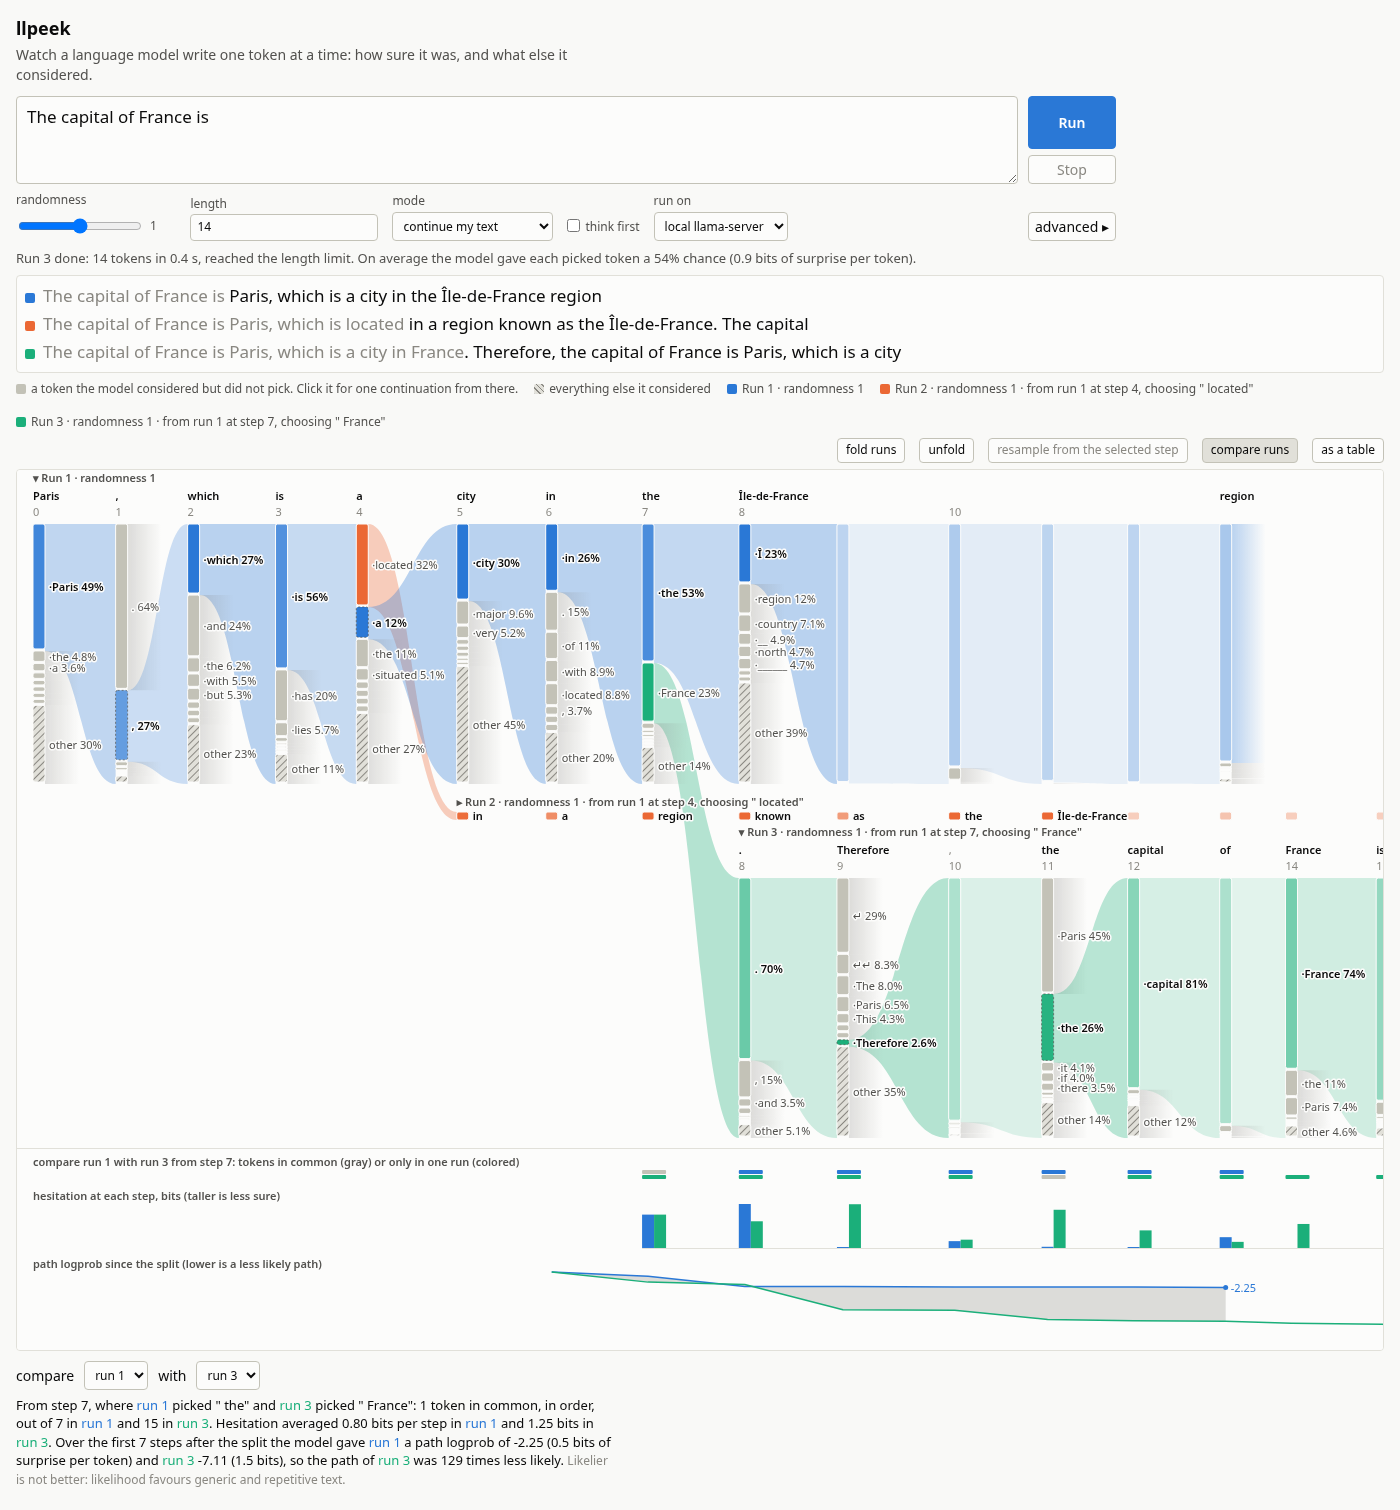
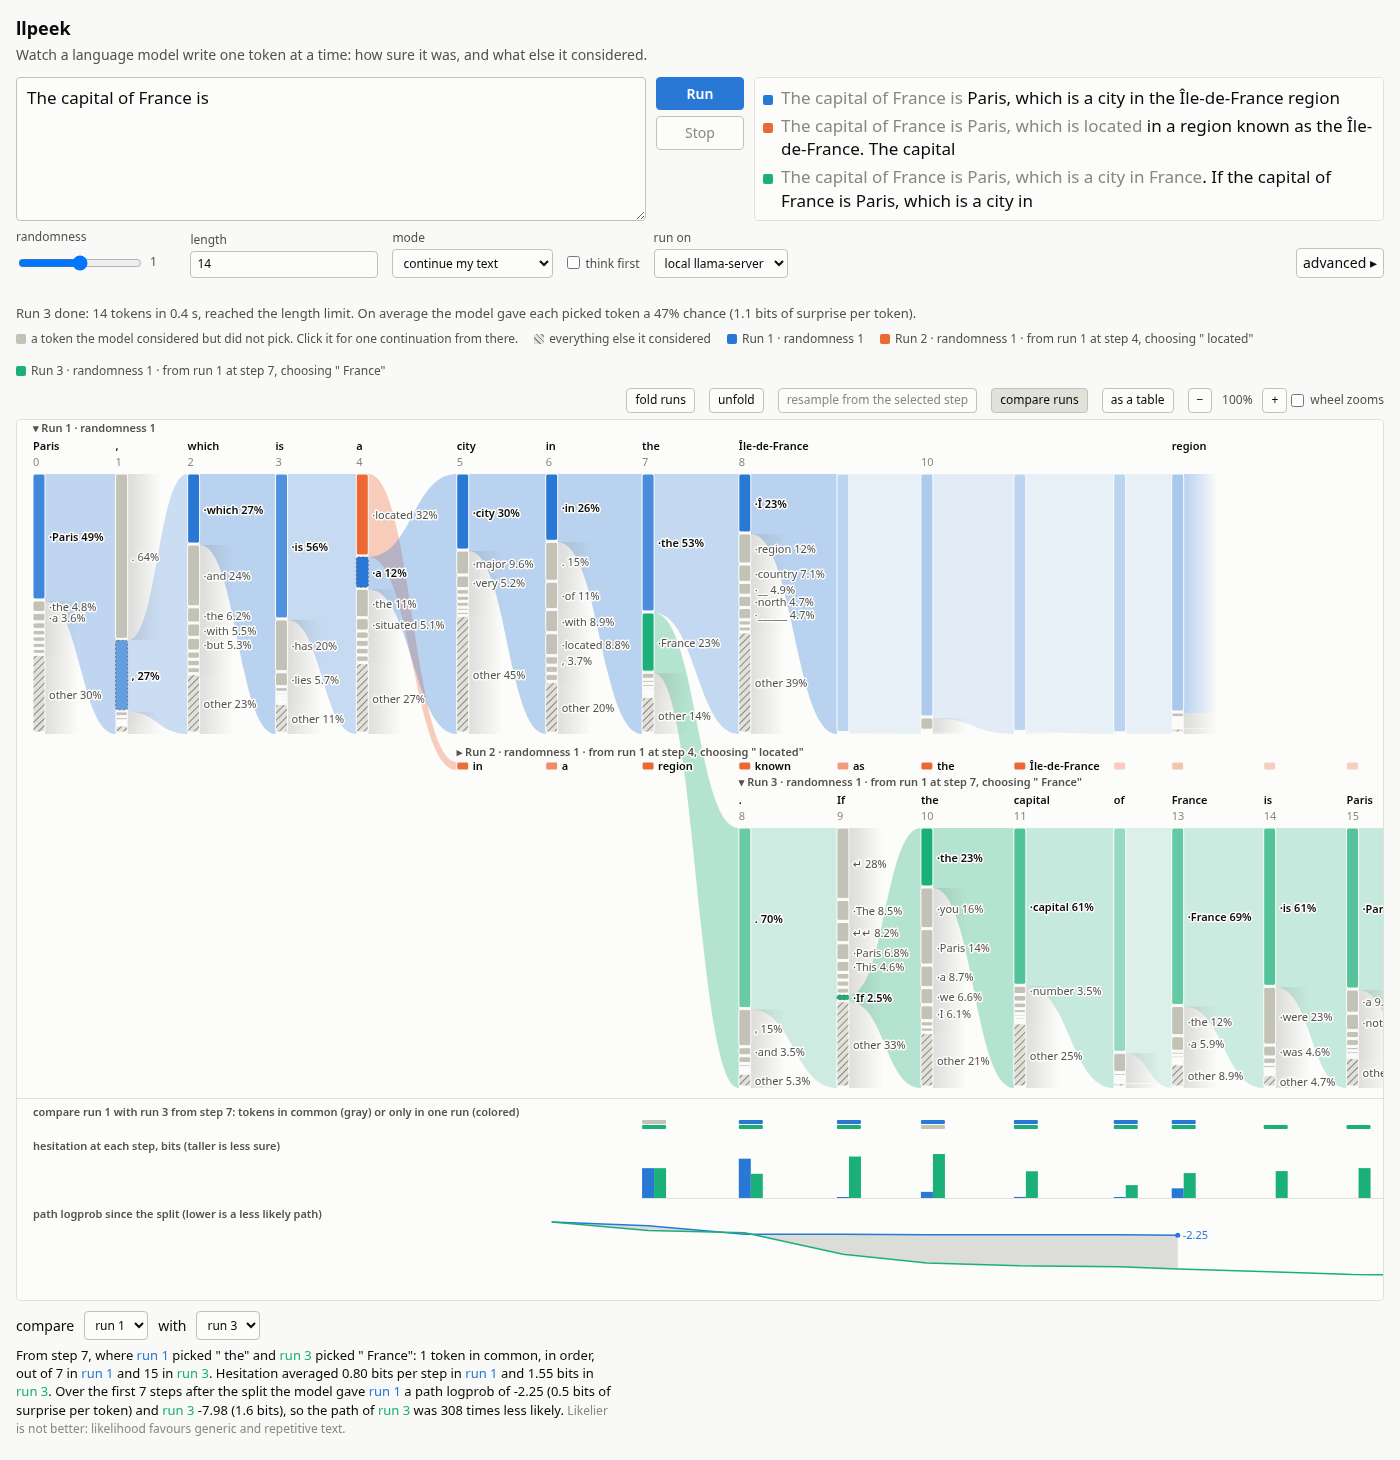
1

diff --git a/docs/app.html b/docs/app.html
@@ -51,7 +51,6 @@
   .range input { width: 110px; }
   output { font-variant-numeric: tabular-nums; min-width: 2.2em; }
   #hint { max-width: 80ch; }
-  form { max-width: 1100px; }
   .bar { display: flex; flex-wrap: wrap; gap: 8px 14px; align-items: flex-end; margin-top: 8px; }
   .spacer { flex: 1; }
   .panel { display: flex; flex-wrap: wrap; gap: 8px 14px; align-items: flex-end; margin-top: 8px; padding: 10px 12px;
@@ -62,6 +61,8 @@
   select { font: inherit; color: var(--ink); background: var(--surface); border: 1px solid var(--line); border-radius: 4px; padding: 4px 6px; }
   .muted { color: var(--muted); font-size: 12px; }
   .warn { color: var(--warn); font-weight: 600; }
+  #promptNote { margin: 2px 0 0; min-height: 1.4em; font-size: 12px; white-space: nowrap; overflow: hidden; text-overflow: ellipsis; }
+  #promptNote.off { visibility: hidden; }   /* the line stays reserved, so the controls never move */
   #loadInfo { display: inline-flex; align-items: center; gap: 8px; }
   #loadInfo.hidden { display: none; }
   progress { accent-color: var(--chosen); width: 200px; height: 8px; }
@@ -79,11 +80,14 @@
   input, textarea, button { font: inherit; color: var(--ink); background: var(--surface);
          border: 1px solid var(--line); border-radius: 4px; padding: 4px 6px; min-width: 0; }
   textarea { display: block; width: 100%; box-sizing: border-box; min-height: 88px; resize: vertical; font-size: 17px; line-height: 1.4; padding: 8px 10px; }
-  .promptRow { display: flex; gap: 10px; align-items: stretch; }
-  .promptRow textarea { flex: 1; }
-  .actions { display: flex; flex-direction: column; gap: 6px; }
-  .actions button { min-width: 88px; }
-  .actions .primary { flex: 1; padding: 6px 22px; }
+  .promptRow { display: flex; flex-wrap: wrap; gap: 10px; align-items: stretch; }
+  .promptRow textarea { flex: 1 1 340px; height: 144px; }   /* five lines of 17 px text */
+  /* The output strip beside the prompt. contain: size keeps its content out of
+     the row's height, so the row is as tall as the prompt box, the strip
+     scrolls inside, and nothing changes size when the first run arrives. */
+  .promptRow #text { flex: 1 1 340px; margin: 0; min-height: 144px; max-height: none; box-sizing: border-box; contain: size; align-self: stretch; }
+  .actions { display: flex; flex-direction: column; gap: 6px; align-self: flex-start; }
+  .actions button { min-width: 88px; padding: 6px 22px; }
   button { cursor: pointer; }
   button.primary { background: var(--chosen); border-color: var(--chosen); color: #fff; font-weight: 600; padding: 6px 22px; }
   button.primary:disabled { opacity: 0.5; cursor: default; }
@@ -108,8 +112,8 @@
   }
   #text { margin: 8px 0; padding: 8px; background: var(--surface); border: 1px solid var(--grid);
           border-radius: 4px; white-space: pre-wrap; word-break: break-word; font-size: 17px; line-height: 1.4;
-          max-height: 240px; overflow: auto; user-select: text; }
-  #text:empty { display: none; }
+          overflow: auto; user-select: text; }
+  #text:empty::before { content: "The model's output will appear here."; color: var(--muted); font-size: 13px; }
   #text .t { cursor: pointer; border-radius: 2px; }
   #text .t:hover { background: var(--grid); }
   #text .p { color: var(--muted); }
@@ -184,8 +188,8 @@
       <button id="run" class="primary" title="Ctrl+Enter">Run</button>
       <button id="stop" disabled title="Escape">Stop</button>
     </div>
+    <div id="text"></div>
   </div>
-  <p id="promptNote" class="warn hidden">The prompt ends with a space. The space usually belongs to the next token, so a model rarely sees one here and the first step will look more hesitant than it is. Remove it unless that is what you want to test.</p>
   <div class="bar">
     <label title="0 = always take the most likely token. Higher = more surprising choices.">randomness
       <span class="range"><input id="temperature" type="range" min="0" max="2" step="0.1" value="0.8"><output id="tempOut">0.8</output></span>
@@ -209,6 +213,7 @@
     <span class="spacer"></span>
     <button id="adv" aria-expanded="false" aria-controls="advanced" title="Technical settings and readouts">advanced &#9656;</button>
   </div>
+  <p id="promptNote" class="warn off" title="The space usually belongs to the next token, so a model rarely sees one here and the first step will look more hesitant than it is.">Trailing space: the first step will look more hesitant than it is.</p>
   <div id="browserRow" class="panel hidden">
     <label>model <select id="model"></select></label>
     <label id="modelUrlLabel" class="hidden">model URL <input id="modelUrl" placeholder="https://huggingface.co/<repo>/resolve/main/<file>.gguf" size="52"></label>
@@ -232,7 +237,6 @@
   </div>
 </form>
 <div id="status"><span id="spin" aria-hidden="true"></span><span id="statusText">idle</span></div>
-<div id="text"></div>
 <div class="toolbar">
   <div class="legend" id="legend">
     <span class="l-cand">a token the model considered but did not pick. Click it for one continuation from there.</span>
@@ -631,7 +635,7 @@ if (!crossOriginIsolated && 'serviceWorker' in navigator && window.isSecureConte
   // over lanes, so lanes stay aligned; they tween like lane heights do.
   let CLOSED_P = 0.85;
   const CLOSED_MIN = 26, OPEN_MIN = 72, OPEN_MAX = 150, PAD = 10, X0 = 16;
-  const promptNote = () => $('promptNote').classList.toggle('hidden', isChat() || !/[ \t]$/.test($('prompt').value));
+  const promptNote = () => $('promptNote').classList.toggle('off', isChat() || !/[ \t]$/.test($('prompt').value));
   $('prompt').addEventListener('input', promptNote);
   $('closed_p').oninput = () => { const v = +$('closed_p').value; if (v >= 0 && v <= 1) { CLOSED_P = v; renderAll(); } };
   const measureCtx = document.createElement('canvas').getContext('2d');

diff --git a/agent_docs/architecture-app.md b/agent_docs/architecture-app.md
@@ -270,15 +270,21 @@ add new motion by extending the tween state, so one loop owns all motion.
   the chosen engine (the loaded browser model's info, or "pick a model"; for
   the server, a fresh check that says which model it runs). The idle phrases
   in `scripts/headless.ts` include these status lines.
-- Controls: prompt textarea (17 px text, the same size as the output strip) with Run (primary; Ctrl+Enter or
-  Cmd+Enter) and Stop (Escape) stacked in a column to its right
-  (`.promptRow`, `.actions`), then the bar: randomness slider, length, mode, think first, run on. Choosing the
+- Top row (`.promptRow`, wraps on narrow windows): prompt textarea (17 px
+  text) on the left, Run (primary; Ctrl+Enter or Cmd+Enter) and Stop
+  (Escape) stacked in a column (`.actions`, both the same size, top-aligned), and the output strip `#text` on
+  the right at the same text size, always present (a muted placeholder while
+  empty) with `contain: size` so its content never sets the row's height: the
+  row is as tall as the prompt box (144 px, five lines, unless dragged) and
+  the strip scrolls inside; a 144 px minimum keeps it a box when it wraps
+  under the prompt on narrow windows. The form spans the full page width,
+  like the toolbar and the chart. Below it the bar of fields: randomness slider, length, mode, think first, run on. Choosing the
   browser engine reveals a model row (curated public URLs, or a URL) with a load
   button, a size note (a warning above 1 GB, or "already in this browser"
   when wllama's cache holds the file) and progress. Advanced: server
   URL, candidates per step (n_probs), top_k, top_p, min_p, seed, the
   closed-column threshold, "add a run to compare", "show sampler filtering".
-- Text strip: one row per run, prompt in muted ink, then each step's `text`.
+- Text strip (`#text`, in the top row beside the prompt): one row per run, prompt in muted ink, then each step's `text`.
   It scrolls, is selectable, and each token is hoverable (tooltip) and
   clickable (select the step, expand its lane, scroll the chart to its column).
 - Tooltip (`#tip`, fixed position): token, id, p with its surprisal in bits
@@ -287,7 +293,10 @@ add new motion by extending the tween state, so one loop owns all motion.
   surprisal per picked token.
 - `#promptNote` warns when the prompt ends in a space or tab: the space usually
   belongs to the next token, so the first step looks more hesitant than it is
-  (the token-healing problem). Checked on input and after query-string prefill. Nodes thinner than 12 px get an invisible enlarged hit rect.
+  (the token-healing problem; the long form is the tooltip). One line is
+  always reserved under the textarea and the note toggles `visibility`
+  (class `off`), so showing it never shifts the controls. Checked on input
+  and after query-string prefill, hidden in chat mode. Nodes thinner than 12 px get an invisible enlarged hit rect.
 - Click a sampled node to select its step (outlined in the strip and the table); click again to clear.
 - Click a gray candidate to branch from it. Click a candidate already branched to select that lane.
 - Legend lists runs with their settings and fork origin; click to select a lane.

diff --git a/CLAUDE.md b/CLAUDE.md
@@ -89,6 +89,13 @@ Any new terminal status message must contain "done", "error", "stopped" or "read
 
 ## Conventions
 
+- Keep the layout as stable as possible. Nothing should move, grow or shrink
+  when state changes (a run starts or ends, a note appears, a model loads):
+  reserve the space up front, size rows from the input rather than from
+  content, scroll inside boxes instead of growing them, and toggle
+  visibility rather than display. Check a before/after pair of screenshots
+  or element sizes for any layout change.
+
 - Never run `deno fmt` or `deno lint`.
 - Never run tests, and never run anything with interactive output.
 - Never install packages; write a script for the user instead.
